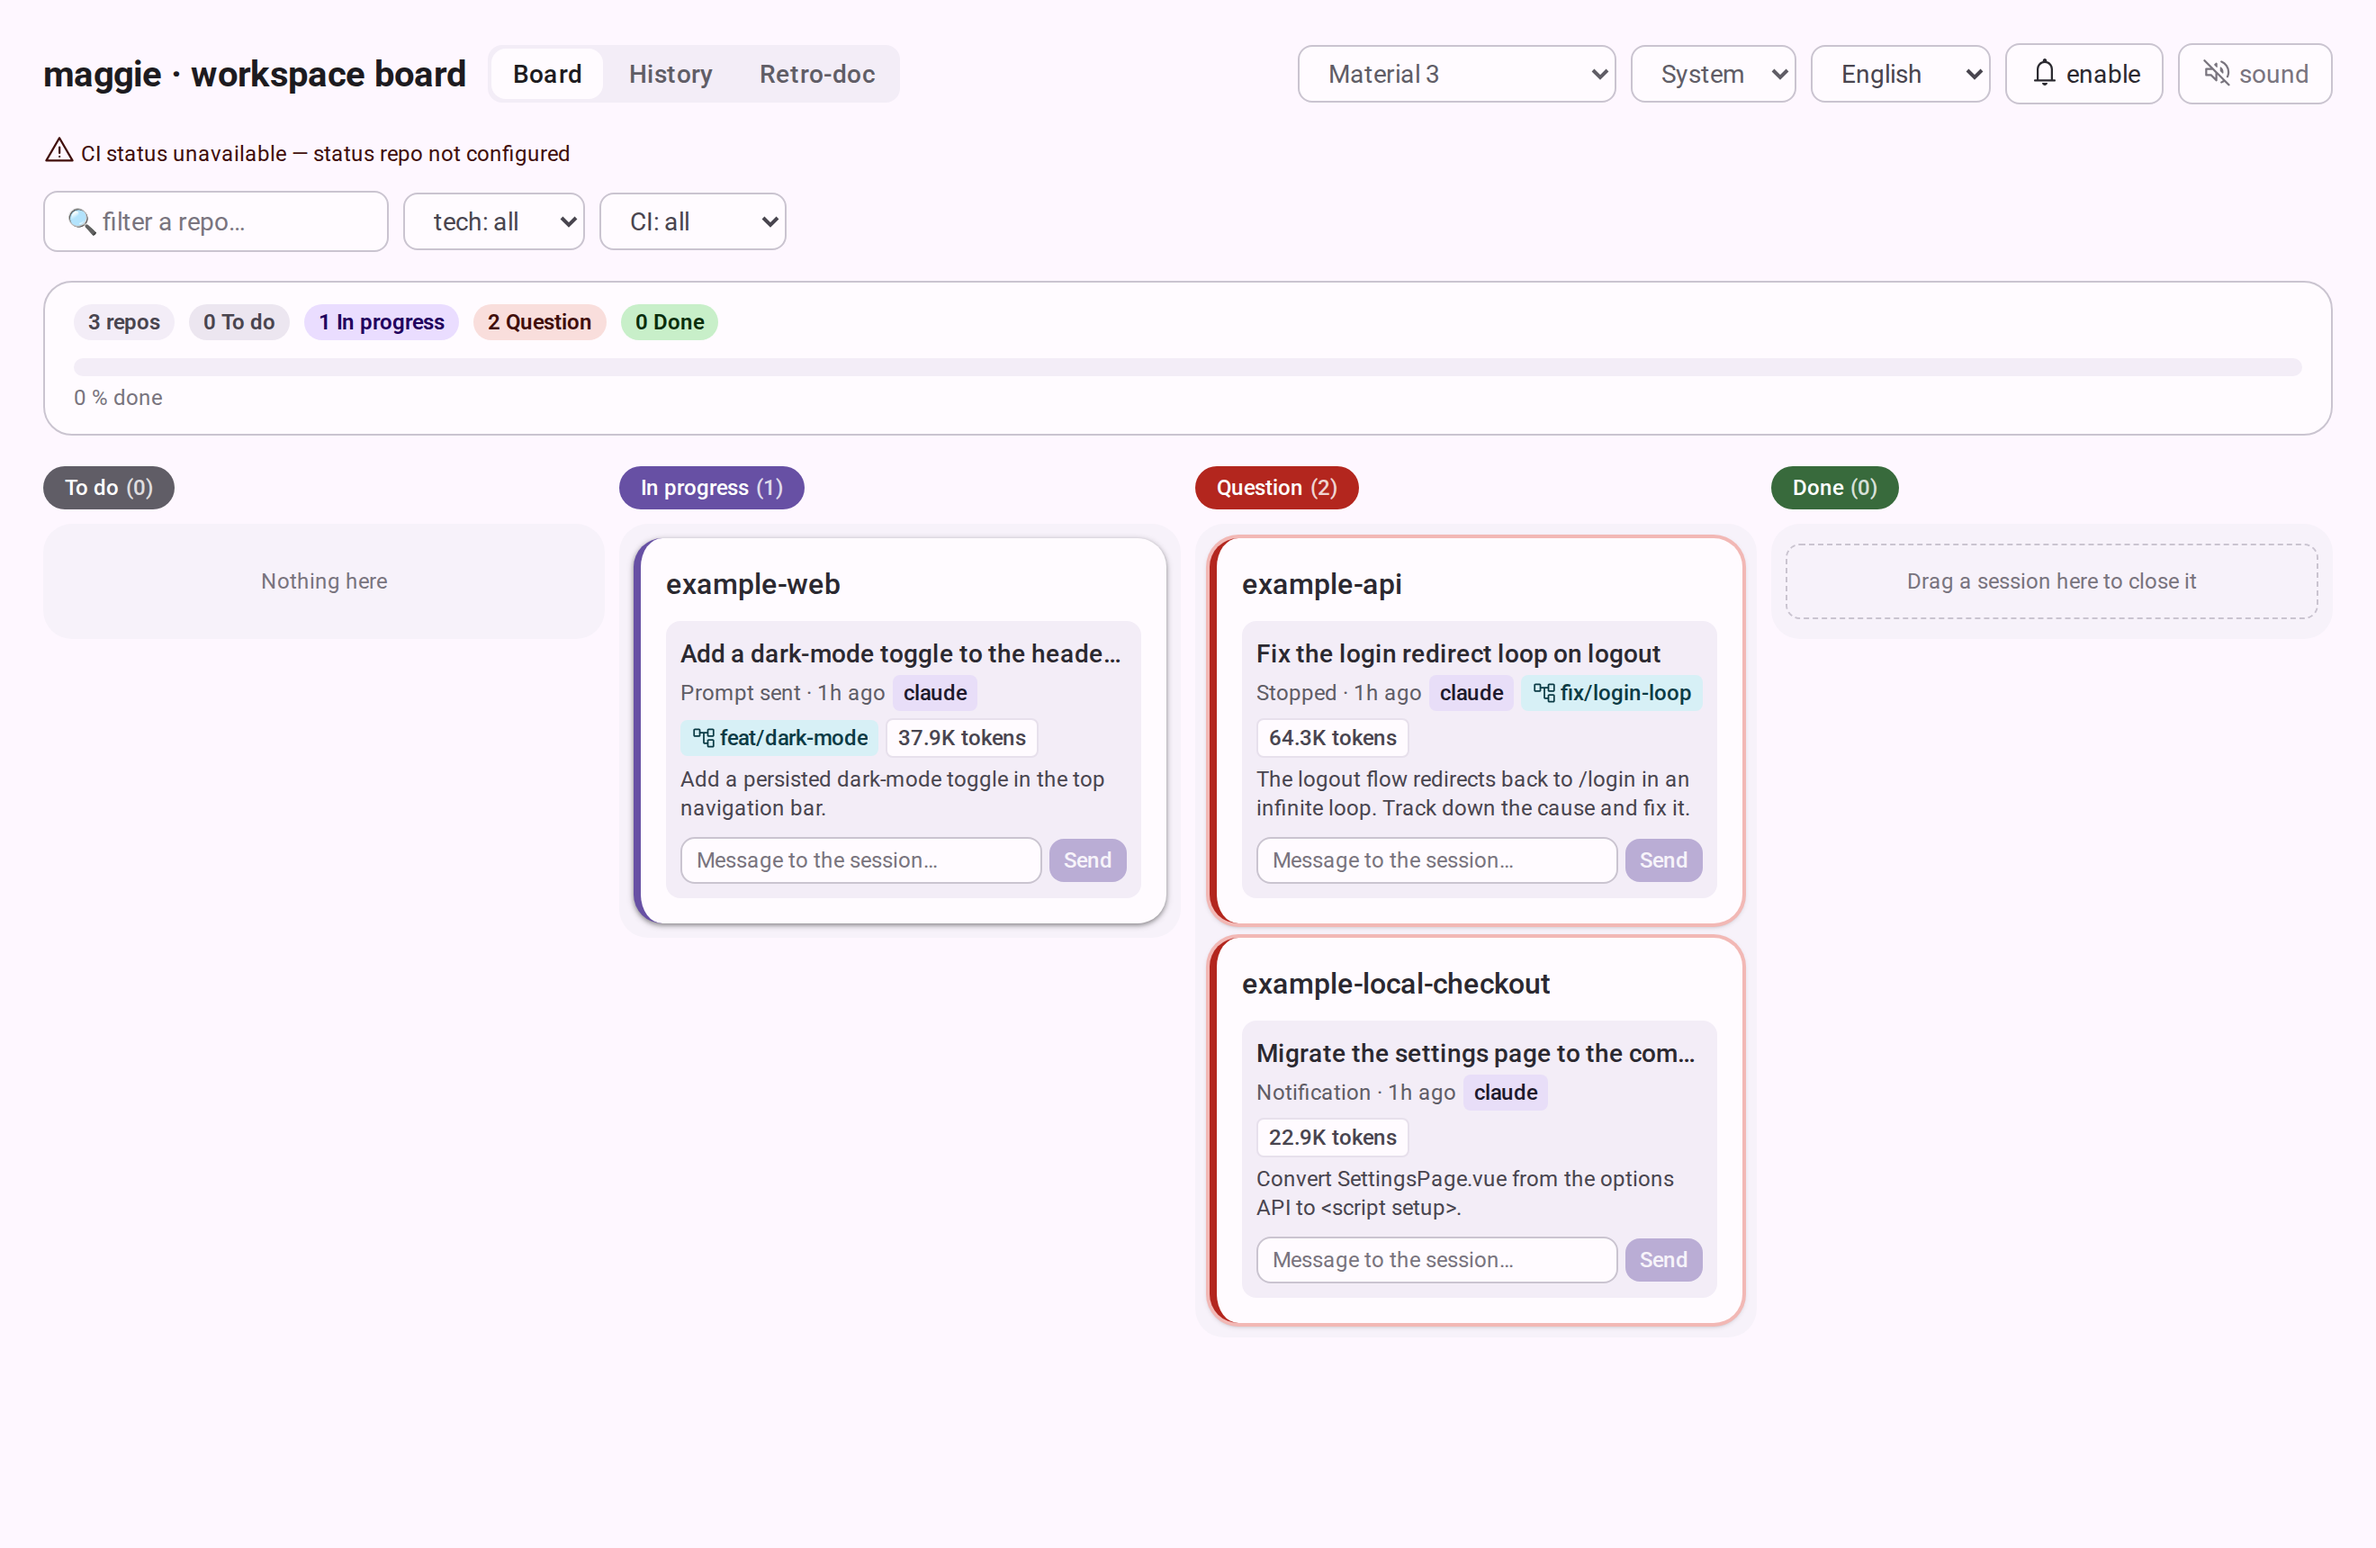
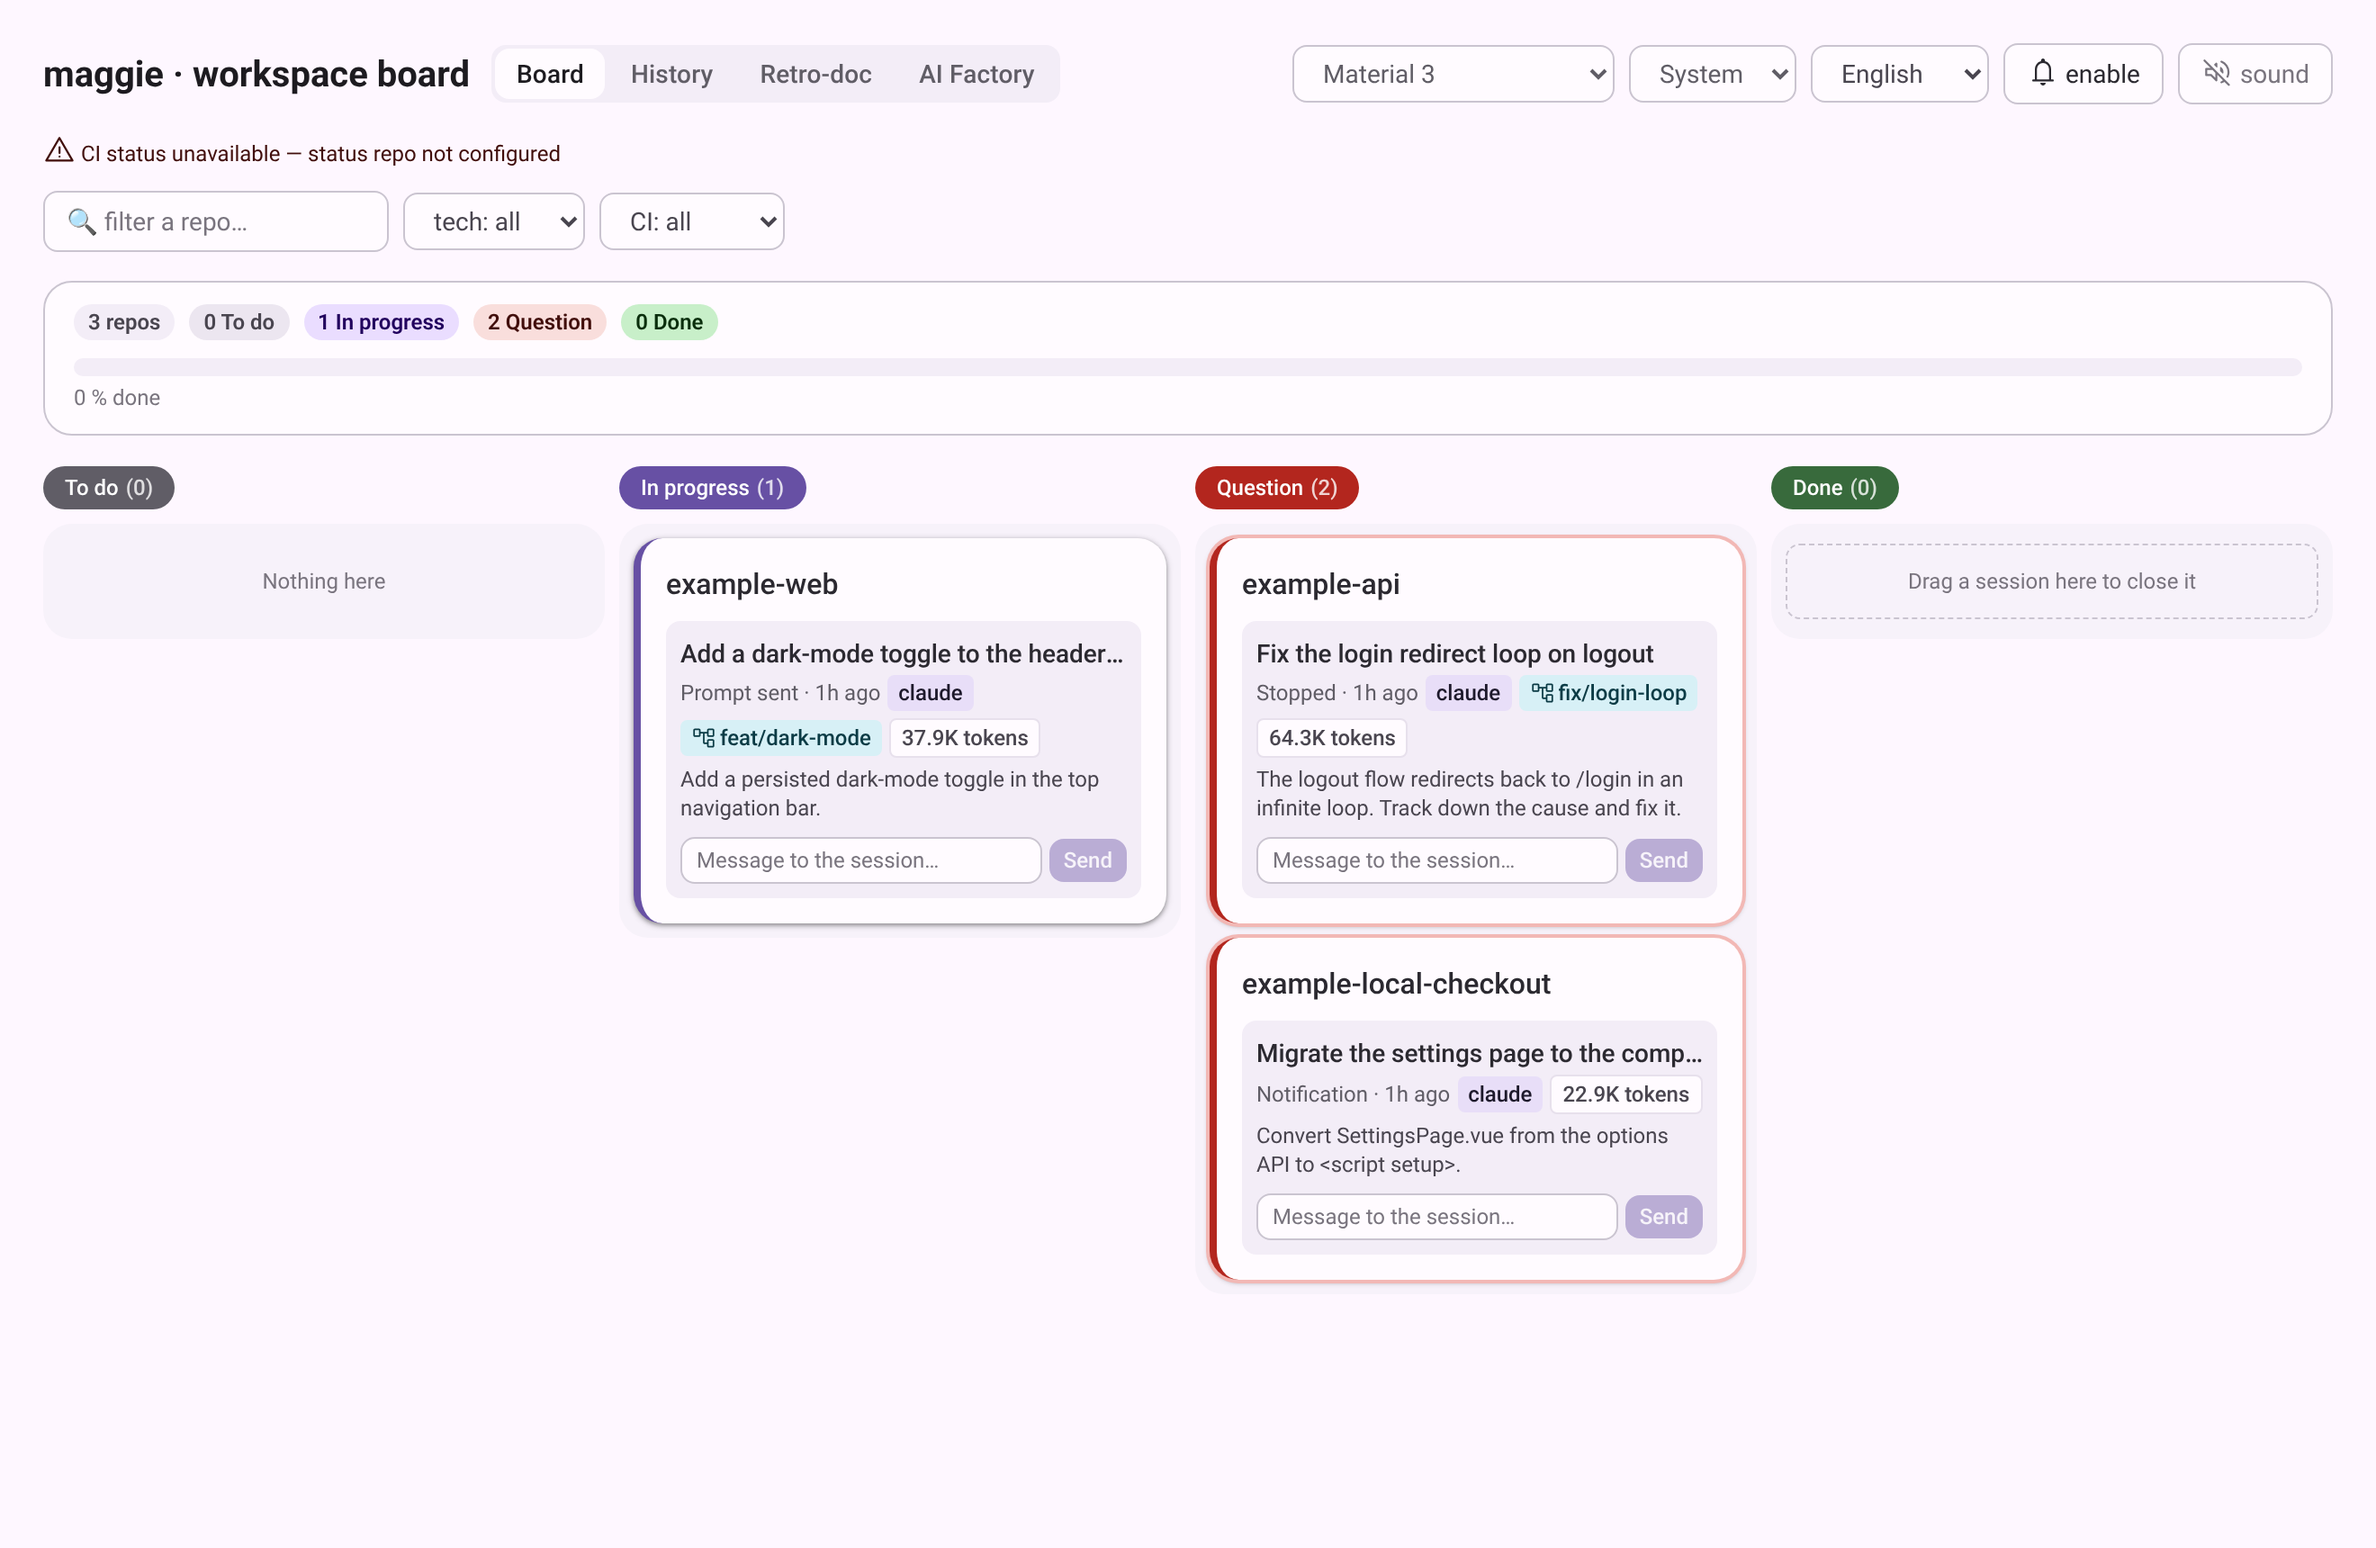
docs: regenerate screenshots and add AI Factory, History and Retro-doc captures
Claude-Session: https://claude.ai/code/session_01H1Ht9eBu2xH4VJxGGRHLVf

diff --git a/README.md b/README.md
@@ -37,6 +37,21 @@ message that is queued until the agent picks it up:
 
 ![Session detail side panel with the message box and queued messages](docs/images/board/send-message-detail.png)
 
+**AI Factory** launches a local Claude Code or Copilot CLI agent on one of your
+repositories — with a free prompt or a skill from the library — and streams its
+output live ([docs](docs/ai-factory.md)):
+
+![The AI Factory tab: run form, runs list and live output](docs/images/board/ai-factory.png)
+
+**History** charts token usage and cost per day, week, month, year or project:
+
+![The history page with the token usage chart](docs/images/board/history-en.png)
+
+**Retro-doc** folds a repository's specs and plans into one document an agent
+can read, with a live console ([docs](docs/retro-doc.md)):
+
+![The retro-documentation page with its run console](docs/images/board/retro-doc.png)
+
 Pick a theme and a light/dark mode, in English, French, German or Spanish:
 
 ![The theme and mode pickers](docs/images/board/theme-picker.png)

diff --git a/docs/retro-doc.md b/docs/retro-doc.md
@@ -5,6 +5,8 @@ document — the *why* behind a codebase, written for the AI agent about to chan
 it. Three ways in: the `scripts/retro-doc.js` CLI, a button on the board, or
 [`@linktogo/maggie-retro-doc`](../libs/retro-doc) directly.
 
+![The retro-documentation page of the board](images/board/retro-doc.png)
+
 A design record grows the way this repository's did: one spec and one plan per
 feature, written at a point in time and never revisited. That history is the
 best explanation of the codebase that exists, and the worst possible thing to

diff --git a/docs/ai-factory.md b/docs/ai-factory.md
@@ -2,6 +2,8 @@
 
 Launch local AI coding agents from the board. Three pieces:
 
+![The AI Factory tab of the board](images/board/ai-factory.png)
+
 | Piece | What it is |
 |---|---|
 | [`libs/agent-runner`](../libs/agent-runner) | the logic: providers, repo allowlist, skills, run lifecycle |
